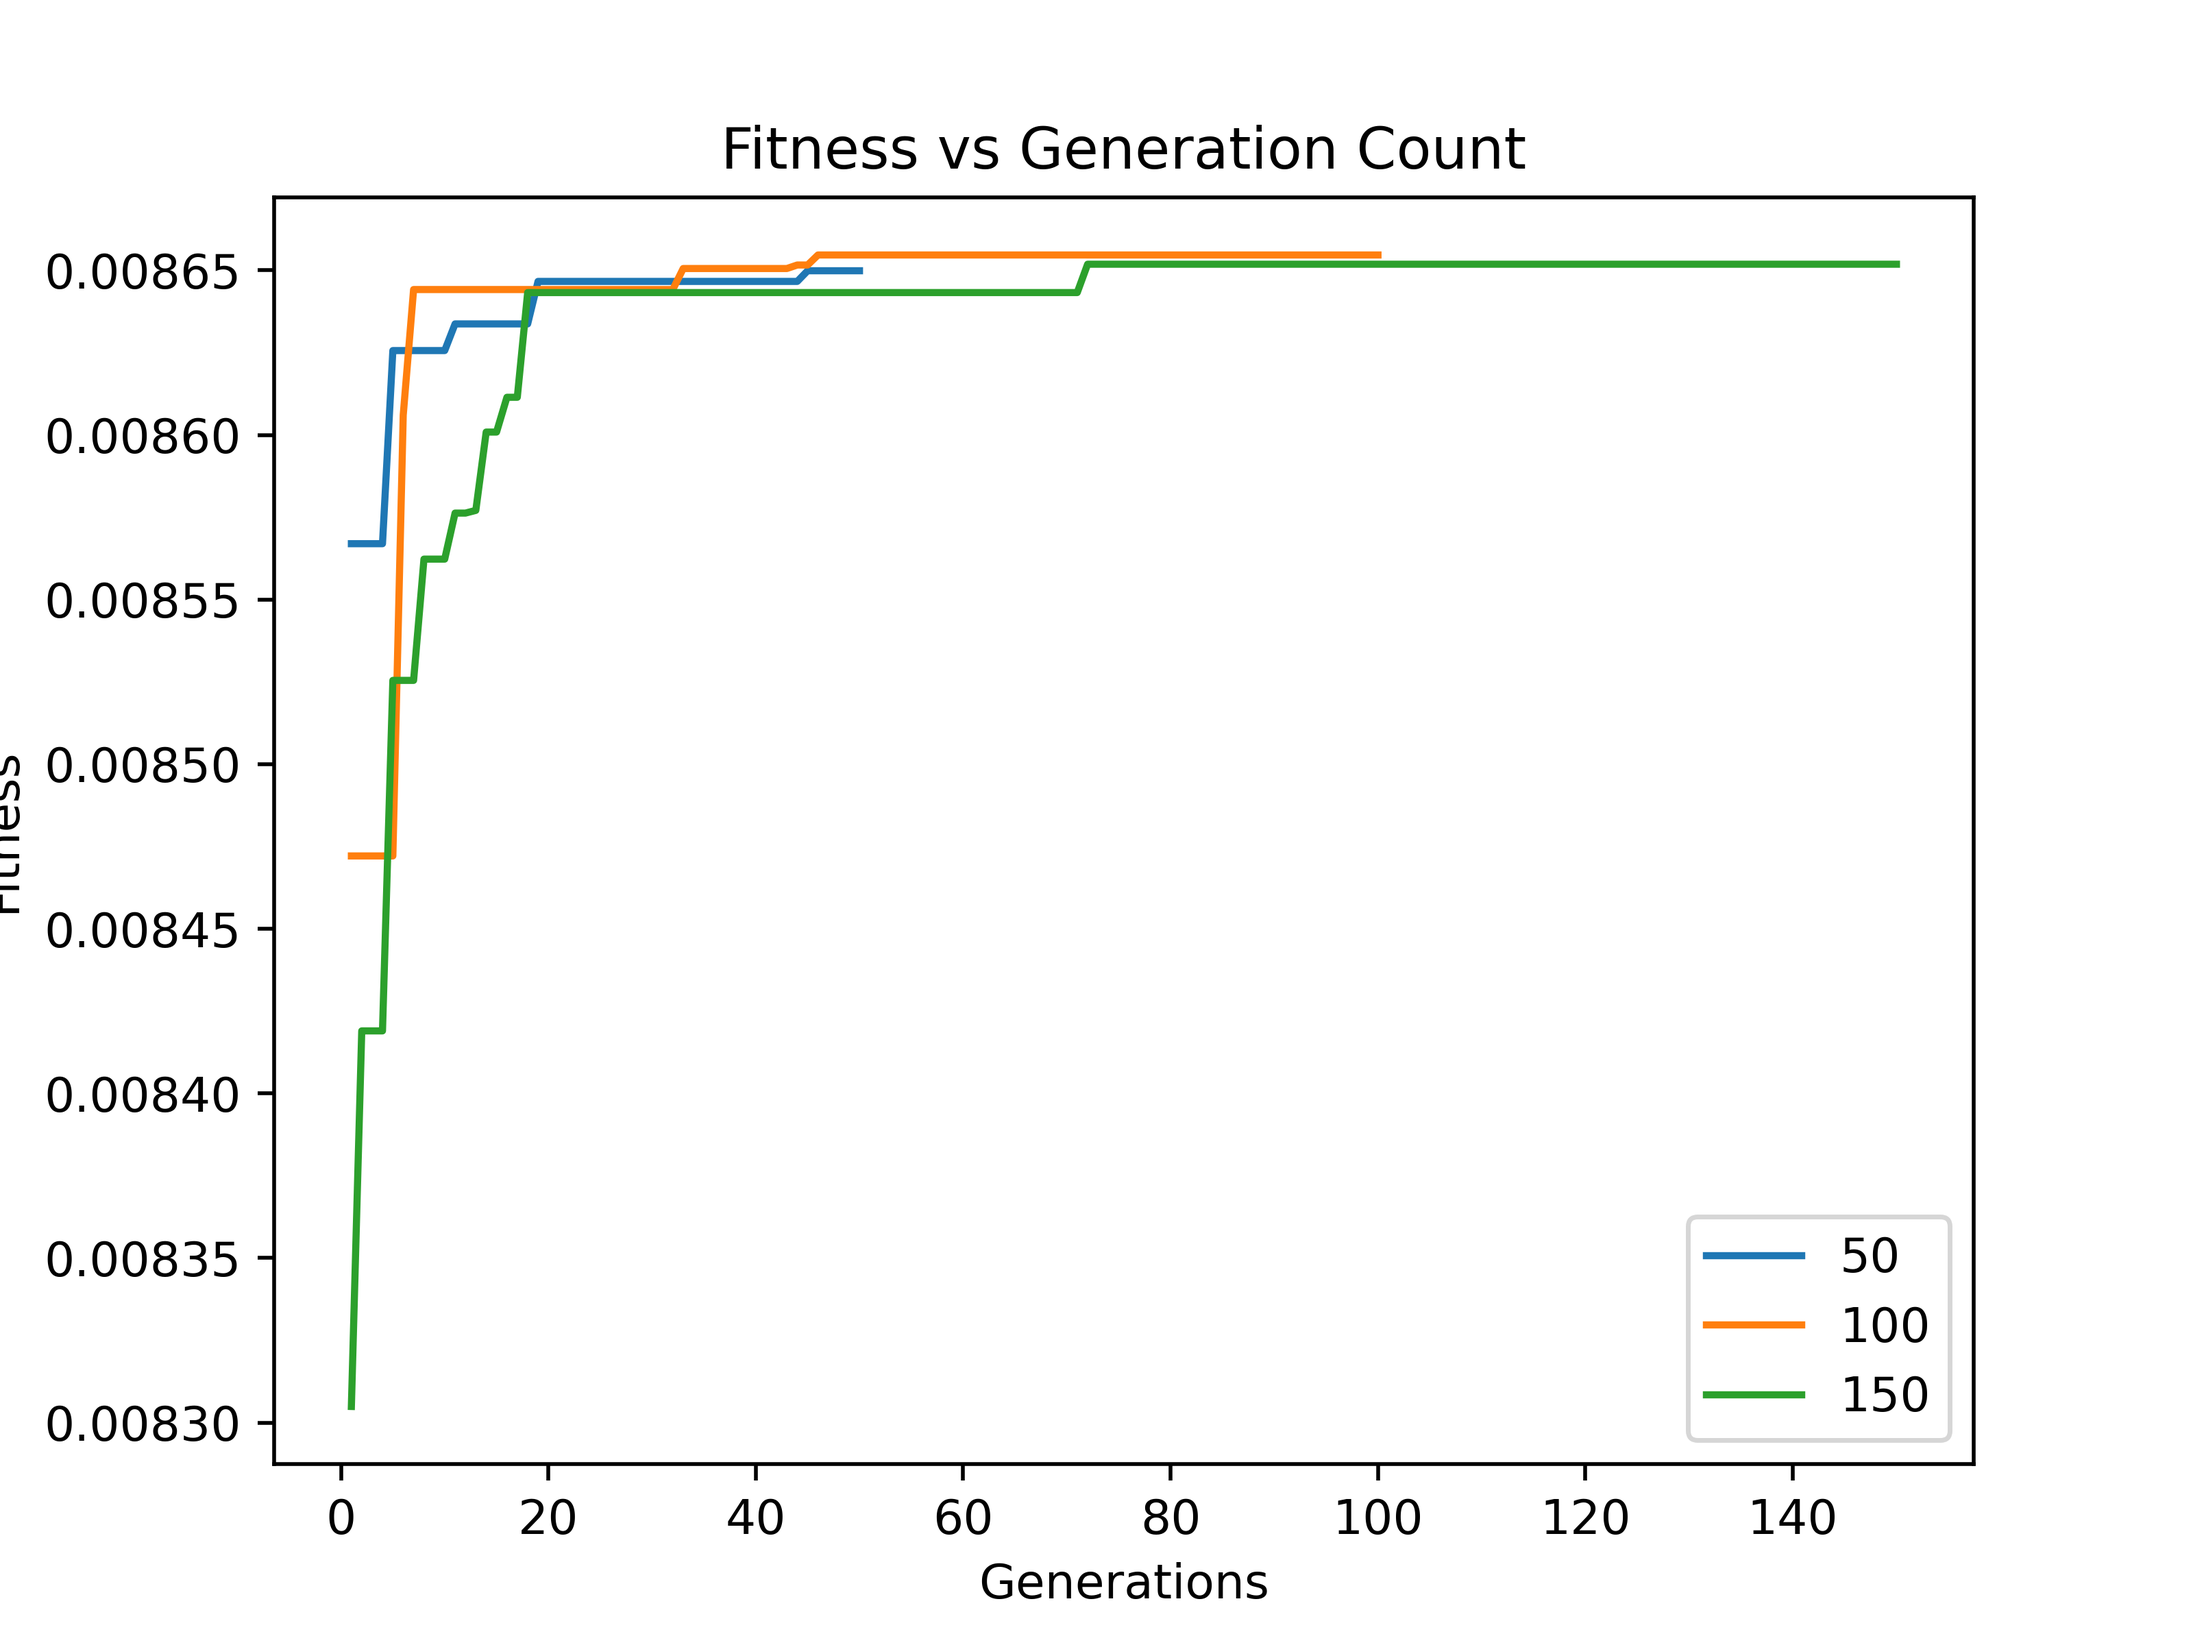
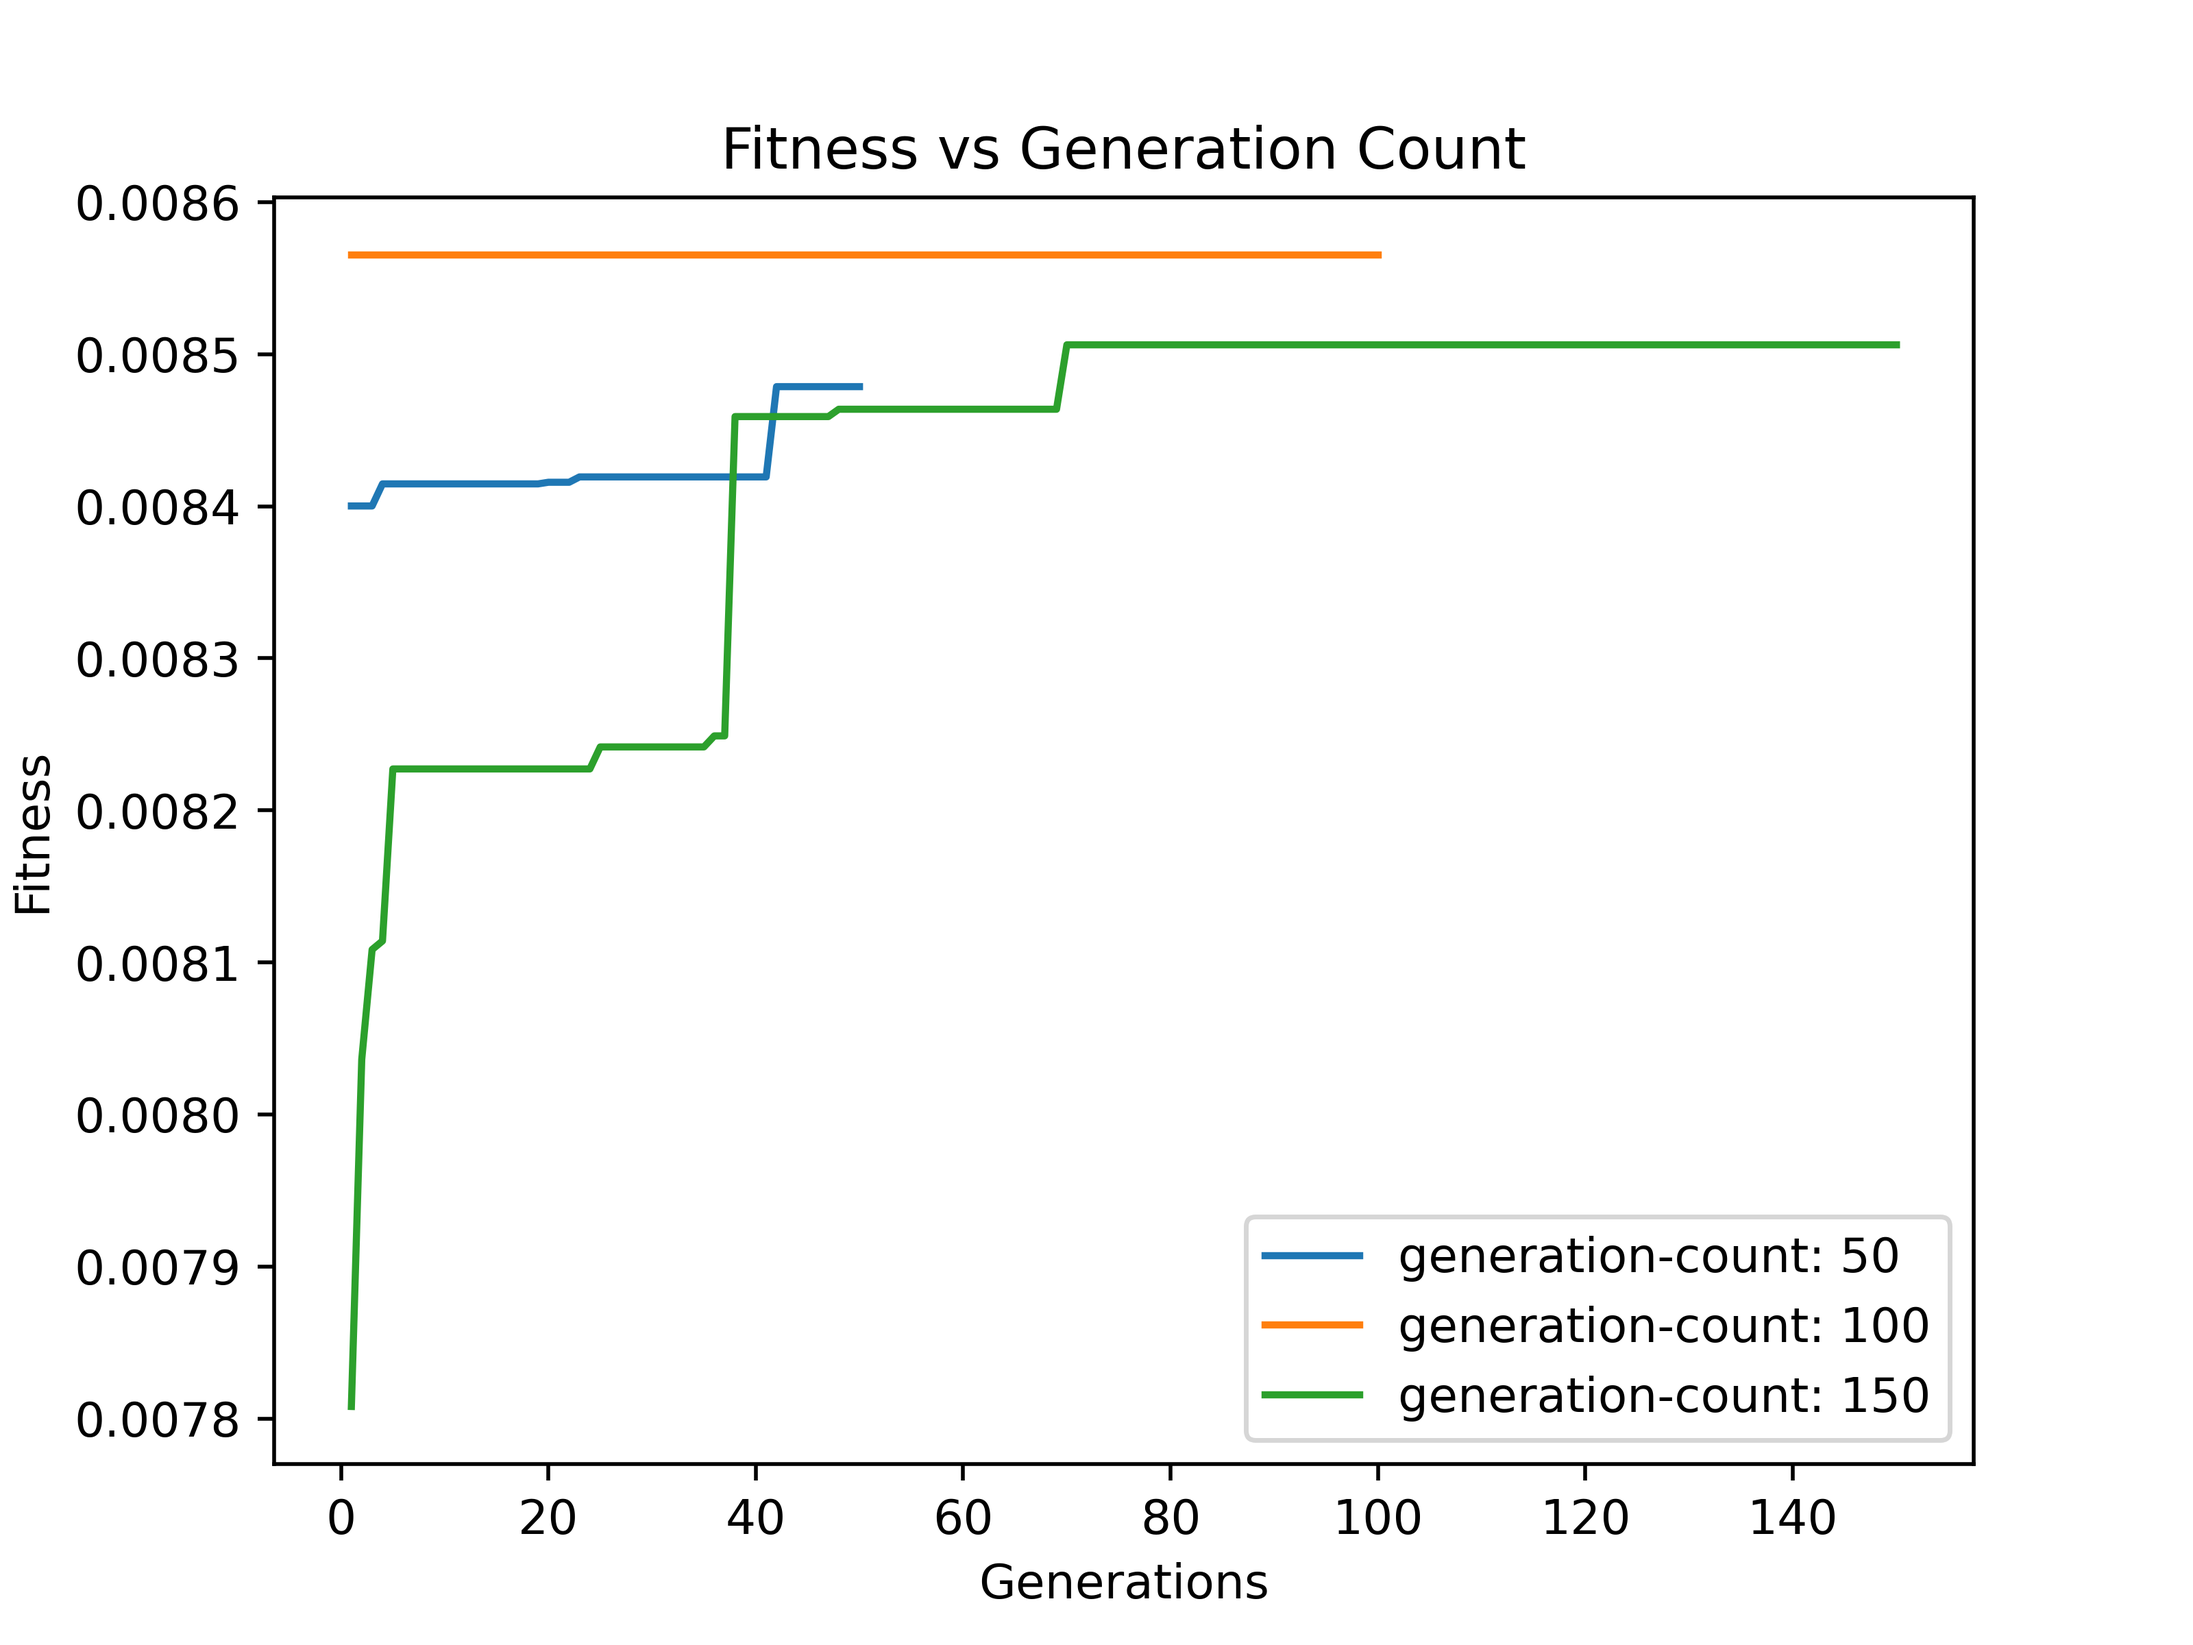
same initial start

diff --git a/assignments/a3/q1/pid_ga.py b/assignments/a3/q1/pid_ga.py
@@ -2,8 +2,6 @@ import numpy as np
 import heapq
 from perffcn import q1_perfFNC
 import random
-import gc
-gc.disable()
 
 
 k_p_lower = 2.00
@@ -28,7 +26,8 @@ class ProportionalIntegralDifferentialGAS():
                  generation_count=150,
                  prob_crossover=0.6,
                  prob_mutation=0.25,
-                 survival_count=2):
+                 survival_count=2,
+                 init_pop=[]):
         super().__init__()
         self.population_size = population_size
         self.generation_count = generation_count
@@ -36,6 +35,7 @@ class ProportionalIntegralDifferentialGAS():
         self.p_m = prob_mutation
         self.survival_count = survival_count
         self.cache = {}
+        self.init_pop = init_pop
 
     def reset(self, population_size=50, generation_count=150,
               prob_crossover=0.6,
@@ -49,11 +49,13 @@ class ProportionalIntegralDifferentialGAS():
         self.cache = {}
 
     def init_population(self):
-        return [tuple(np.round(np.array([
+        if len(self.init_pop) == 0:
+            self.init_pop = [tuple(np.round(np.array([
                 np.random.uniform(low=k_p_lower, high=k_p_upper),
                 np.random.uniform(low=T_I_lower, high=T_I_upper),
                 np.random.uniform(low=T_D_lower, high=T_D_upper)
-                ]), 2)) for i in range(self.population_size)]
+            ]), 2)) for i in range(self.population_size)]
+        return self.init_pop
 
     def fitness(self, individual):
         # Do not use setdefault, it has performance issues
@@ -109,7 +111,7 @@ class ProportionalIntegralDifferentialGAS():
         # Spin roulette wheel until we get population size number of individuals
         new_gen = [individuals[i] for i in np.random.choice(
             len(individuals), len(individuals), p=selection_prob)]
-        return new_gen[:self.population_size]
+        return new_gen
 
     def best_of_population(self, population):
         best_individual = max(population, key=self.fitness)

diff --git a/assignments/a3/q1/genetic_algorithm.py b/assignments/a3/q1/genetic_algorithm.py
@@ -52,7 +52,7 @@ if __name__ == "__main__":
             has_legend = False
             x = range(1, len(series[1])+1)
             y = series[1]
-            if series[0] != '':
+            if series[0] == '':
                 plt.plot(x, y)
             else:
                 has_legend = True
